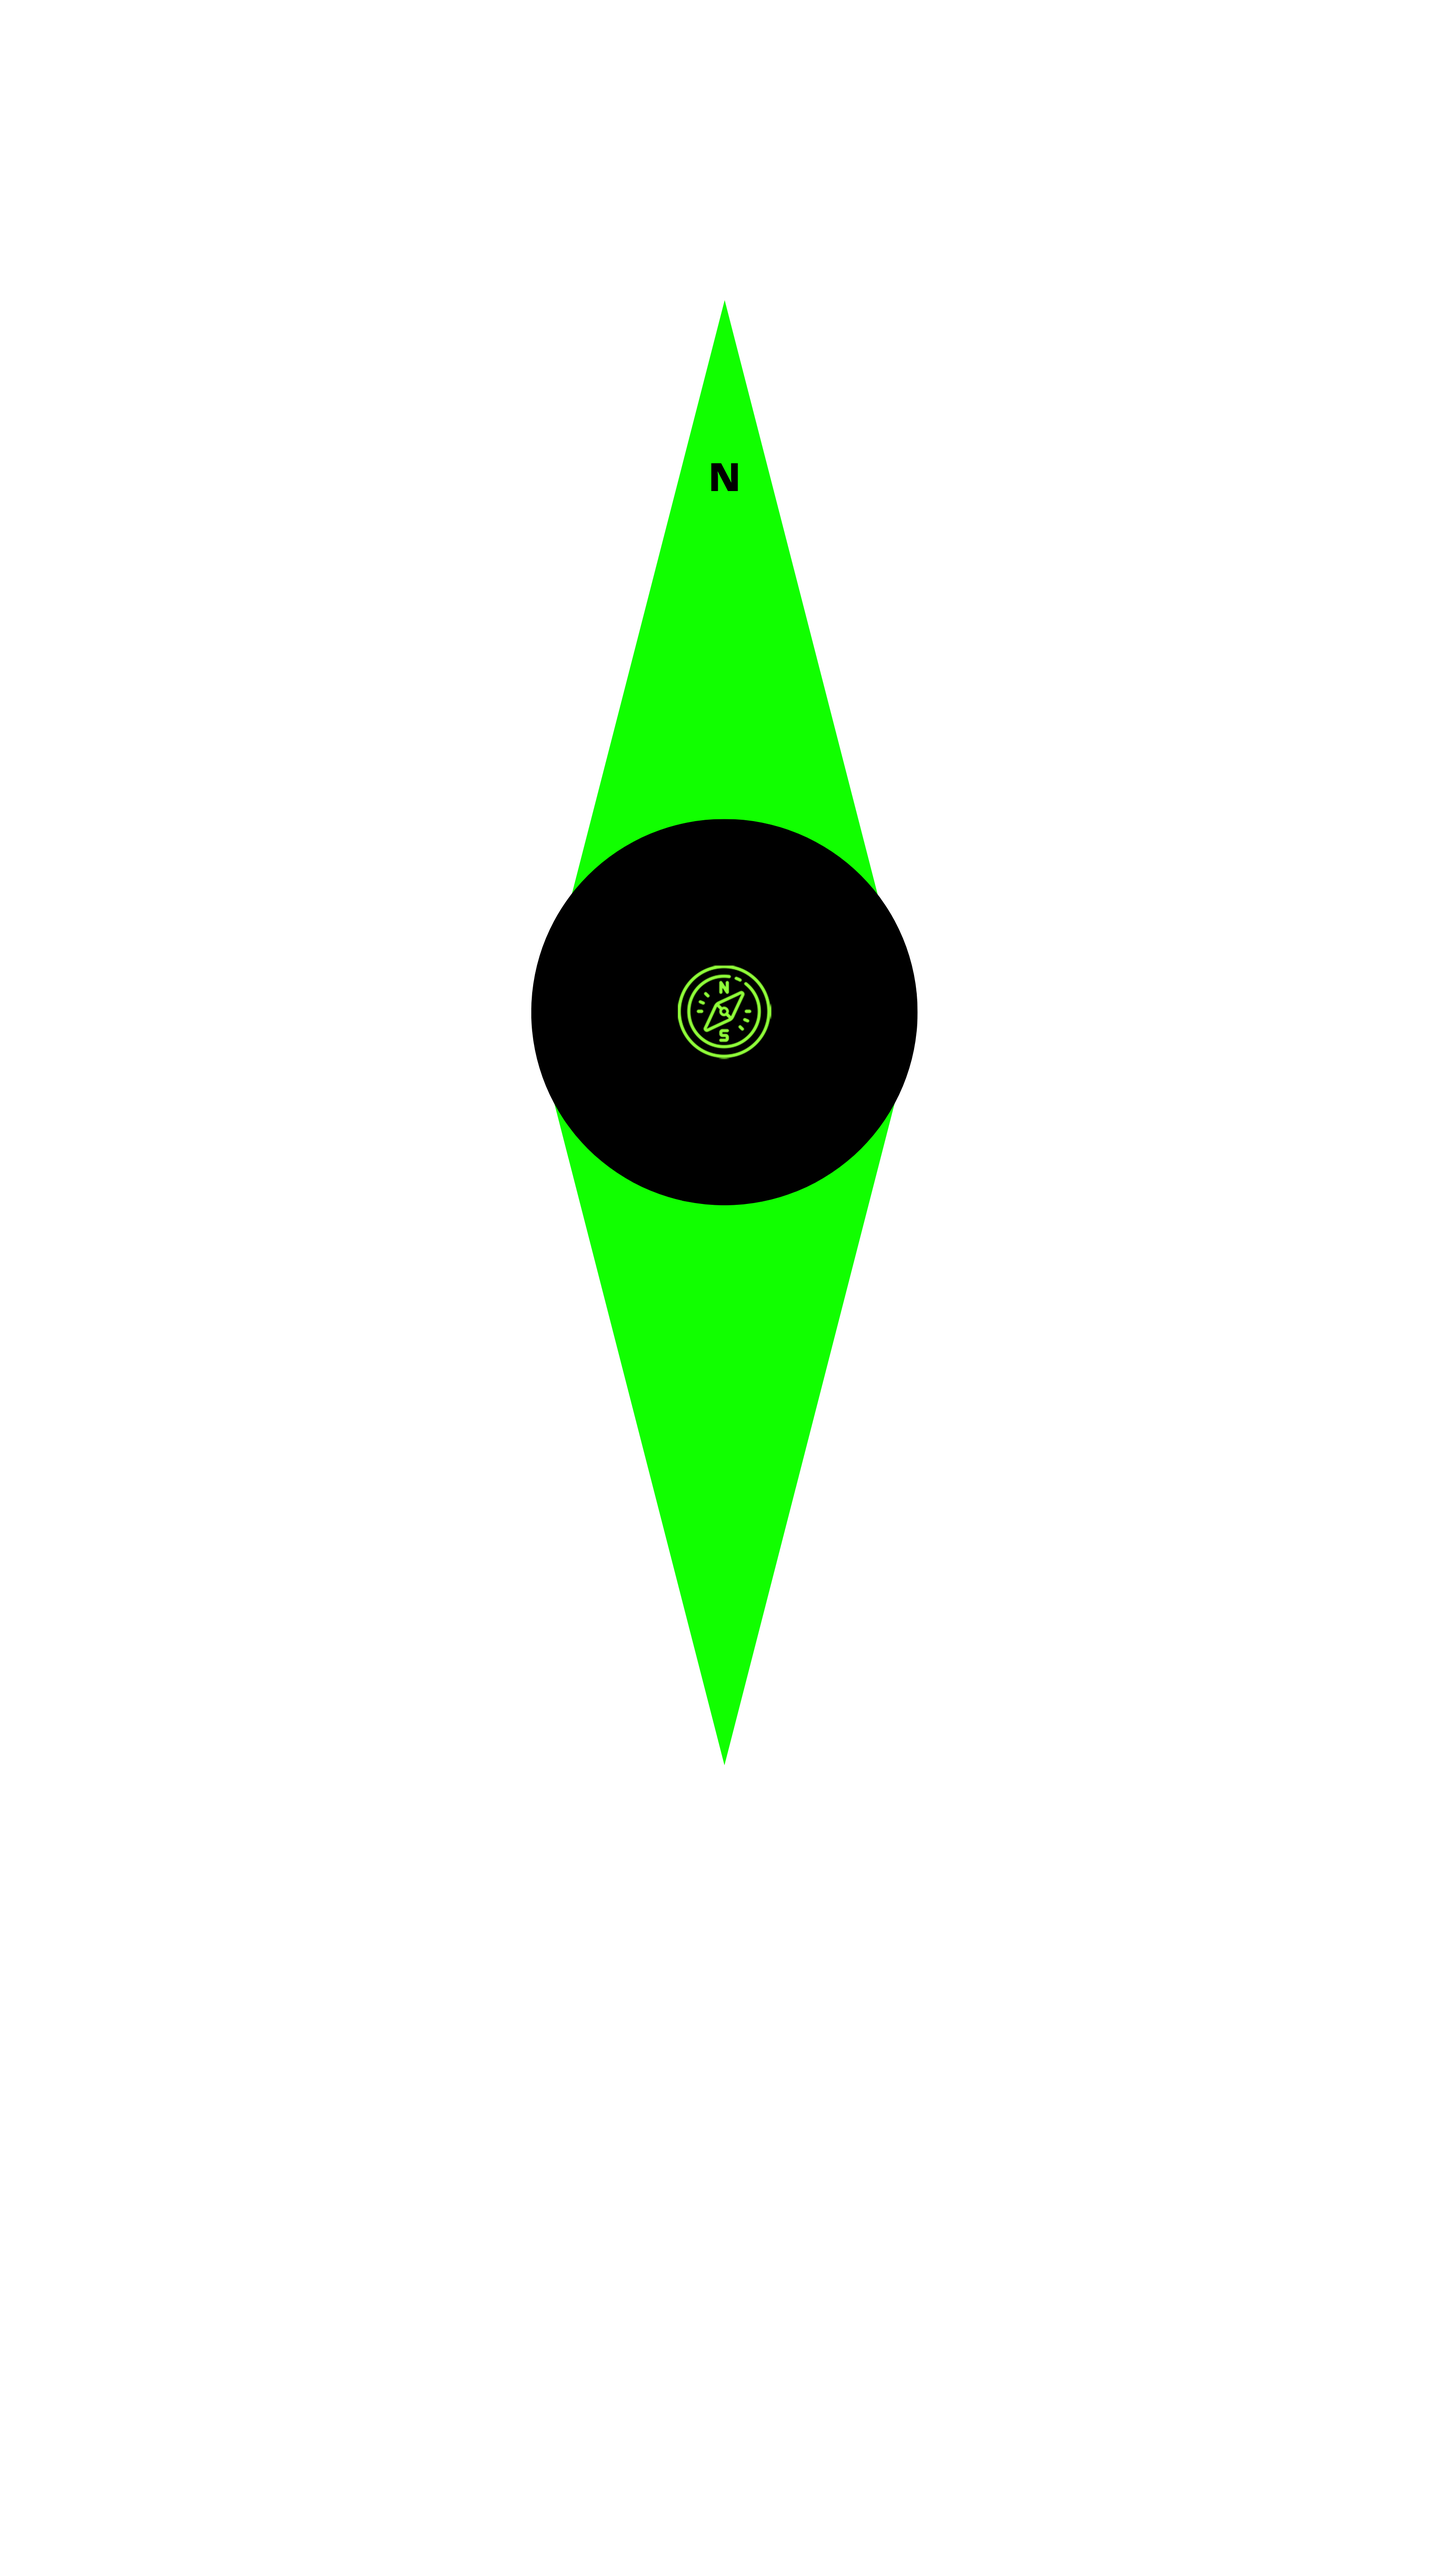
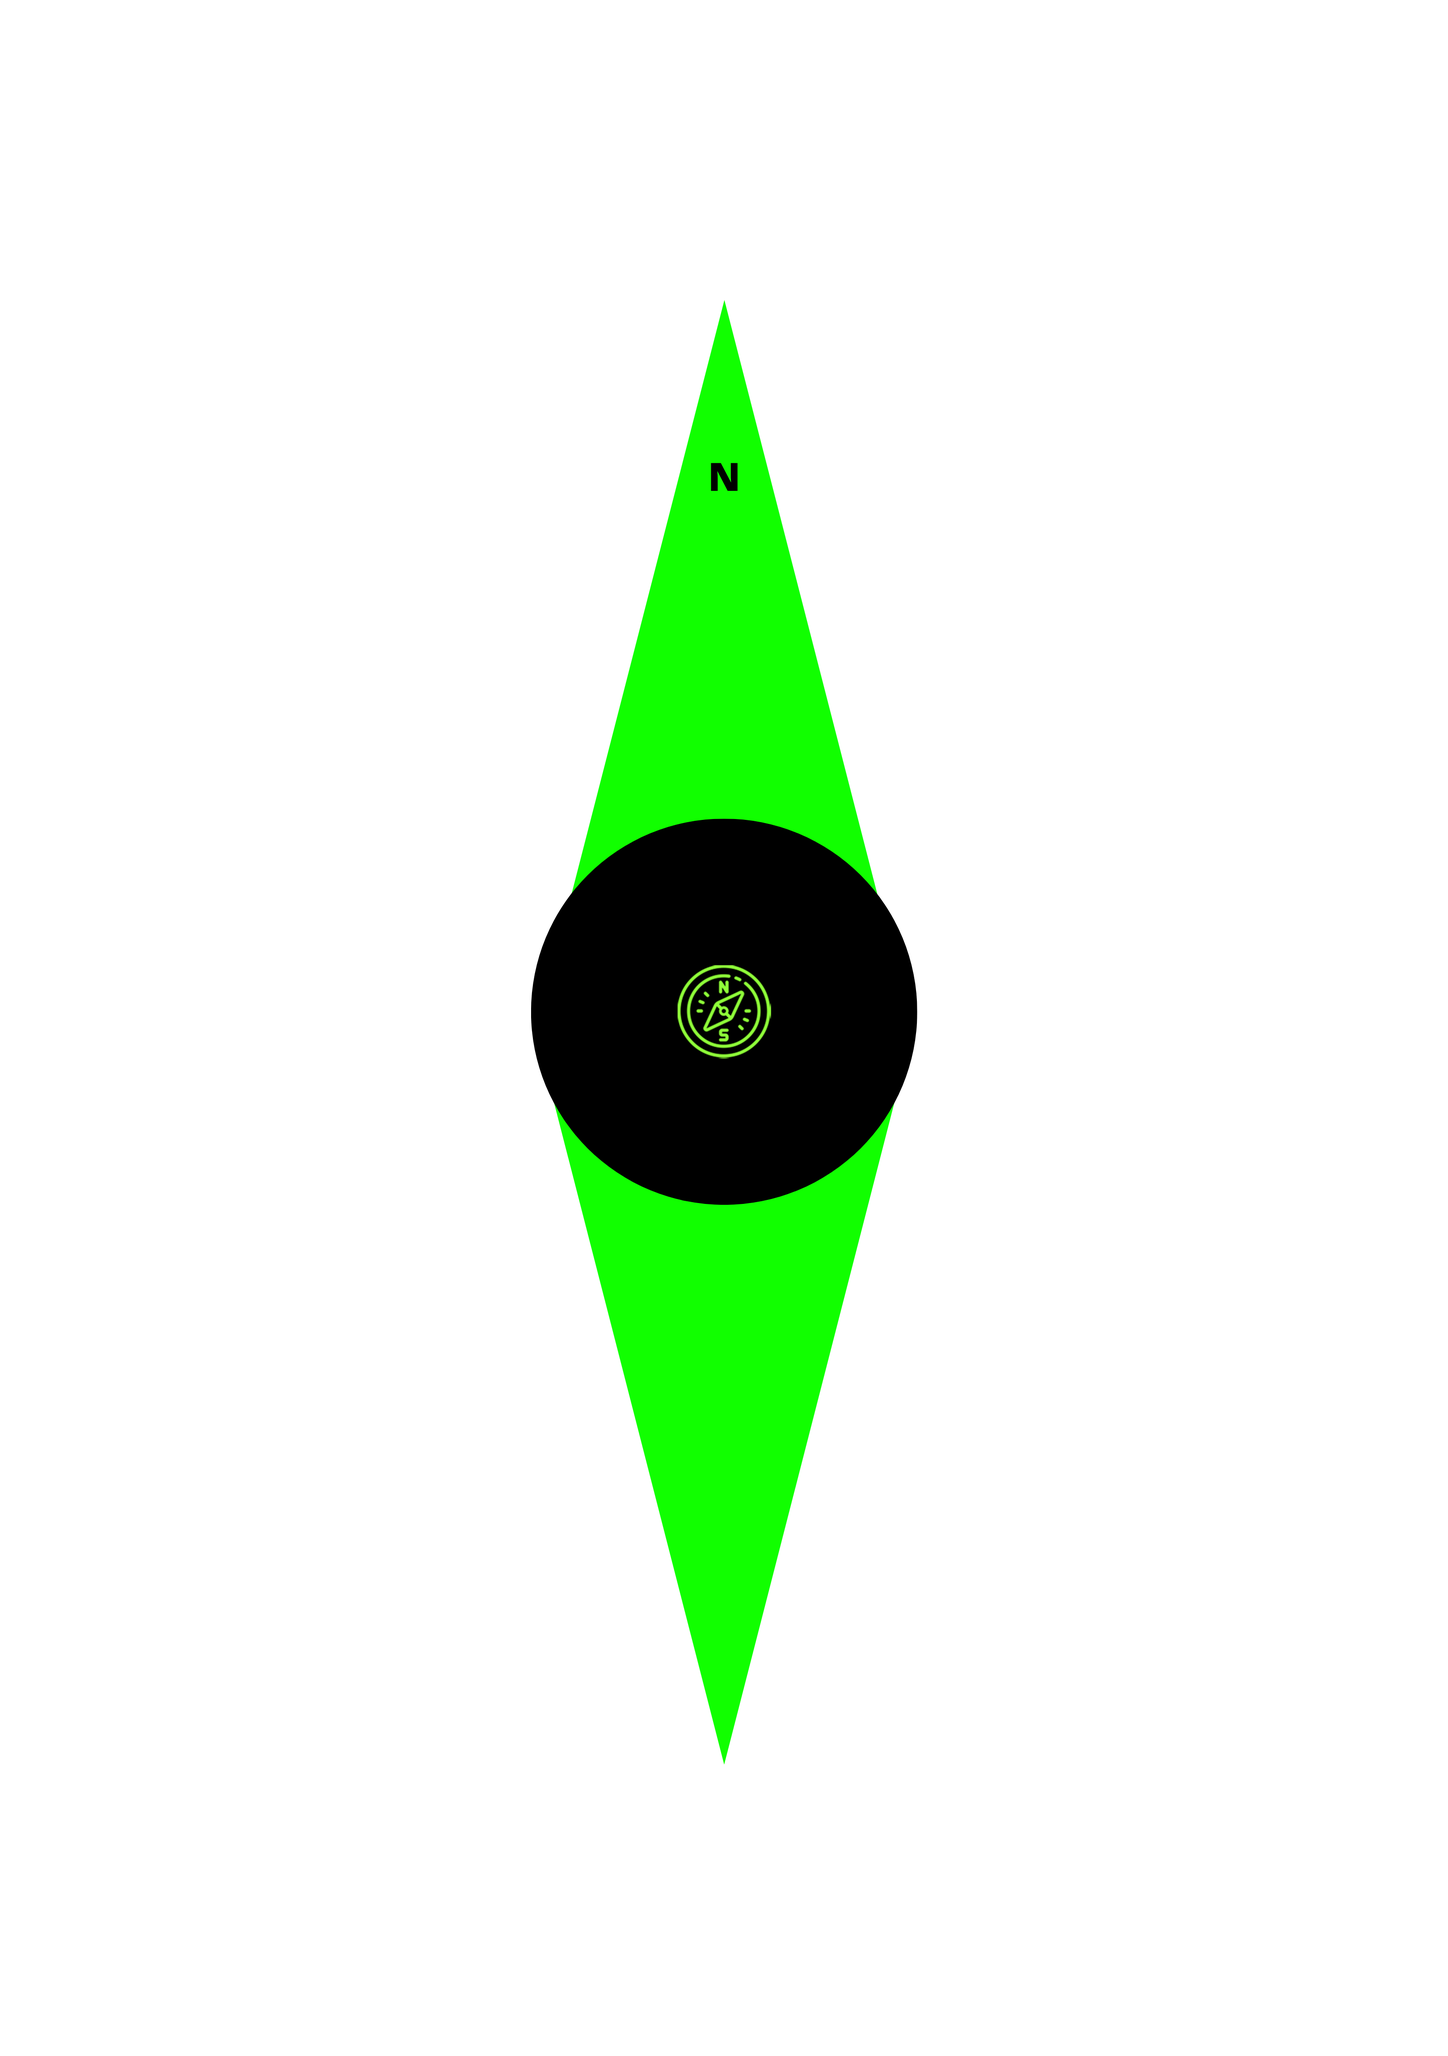
commit test

Changed region(s): [[0.343, 0.1244, 0.6548, 0.8395]]

diff --git a/index.html b/index.html
@@ -10,19 +10,29 @@
         <header>
             <img class="logo" src="./assents/3.png" alt="">
         </header>
-        <main class="container">
-            
-            <img class="bussola-fundo" src="/assents/5.png"/>
-            <img class="agulha" src="/assents/bussola1.png" alt="">
-          
-        
-        </main>
 
-        <button onclick='requestOrientationPermission();'>Request orientation permission</button>
+        <main class="container">
+               <div id="myDiv">
+            <h2>Antes de entrar, precisamos da sua permissão para usar a orientação do seu celular para podemos fazer a magica :D</h2>
+            <button id="config" onclick='requestOrientationPermission()'>Request orientation permission</button>
+        </div>
+        <img class="agulha" src="/assents/bussola1.png" alt="">
+            <img class="bussola-fundo" src="/assents/bussola.png"/>
+            
+            
+
+        </main>
+        <section>
+            <div id="timer"></div>
+        </section>
+                
+     
+
+
        
         
       
         
     </body>
-    <script src="./script.js"></script>
+    <script defer src="./script.js"></script>
 </html>

diff --git a/script.js b/script.js
@@ -7,21 +7,38 @@ if (window.DeviceOrientationEvent) {
         img.style.transform = "rotateZ(" + evt.alpha + "deg)";
     }, false);
 } else {
-    alert("Teu browser é desorientado, vei. Taca fogo nele!");
+    window.alert("Teu browser é desorientado, vei. Taca fogo nele!");
 }
 
 window.addEventListener('touchstart', function(evt) {
     img.src = "bussola" + evt.touches.length + ".png";
 }, false);
 
-function requestOrientationPermission(){
+var confirm = document.getElementById("confirmation");
+
+function requestOrientationPermission()
 DeviceOrientationEvent.requestPermission()
 .then(response => {
 if (response == 'granted') {
+    document.getElementById("confimation").style.display="none"
     window.addEventListener('deviceorientation', (e) => {
-        // do something with e
+       
+        
     })
-}
-})
-.catch(console.error)
-}
+    
+}})
+
+.catch(document.getElementById("config").style.display="none")
+
+////////////////////////
+
+ 
+function  requestOrientationPermission() {
+    var x = document.getElementById("myDIV");
+    if (x.style.display === "block") {
+      x.style.display = "none";
+    } else {
+      x.style.display = "block";
+    }
+  }
+

diff --git a/style.css b/style.css
@@ -31,17 +31,53 @@ header{
 }
 
 .bussola-fundo{
+    margin-top: 20vh;
     width: 40vw;
 }
 
 .agulha{
-    margin: 35px auto auto 5px;
     position: absolute;
-    width: calc(10vw)
+    margin:7vh auto auto 7px;
+  
+    width: 15vw
 }
+
+section{
+    display: flex;
+    align-items: center;
+    justify-content: center;
+}
+
+
 
 
 button{
     width: 100px;
+    
 }
 
+#confimation{
+    position: absolute;
+    display: flex;
+    justify-content: center;
+    align-items: center;
+    flex-direction: column;
+}
+
+h2{
+    text-align: center;
+    font-size: 20px;
+}
+
+@media screen and (max-width: 1400px) {
+    .logo{
+        width: 100vw;
+    }
+}
+
+
+@media screen and (max-width: 1060px) {
+    .logo{
+        width: 100vw;
+    }
+}
